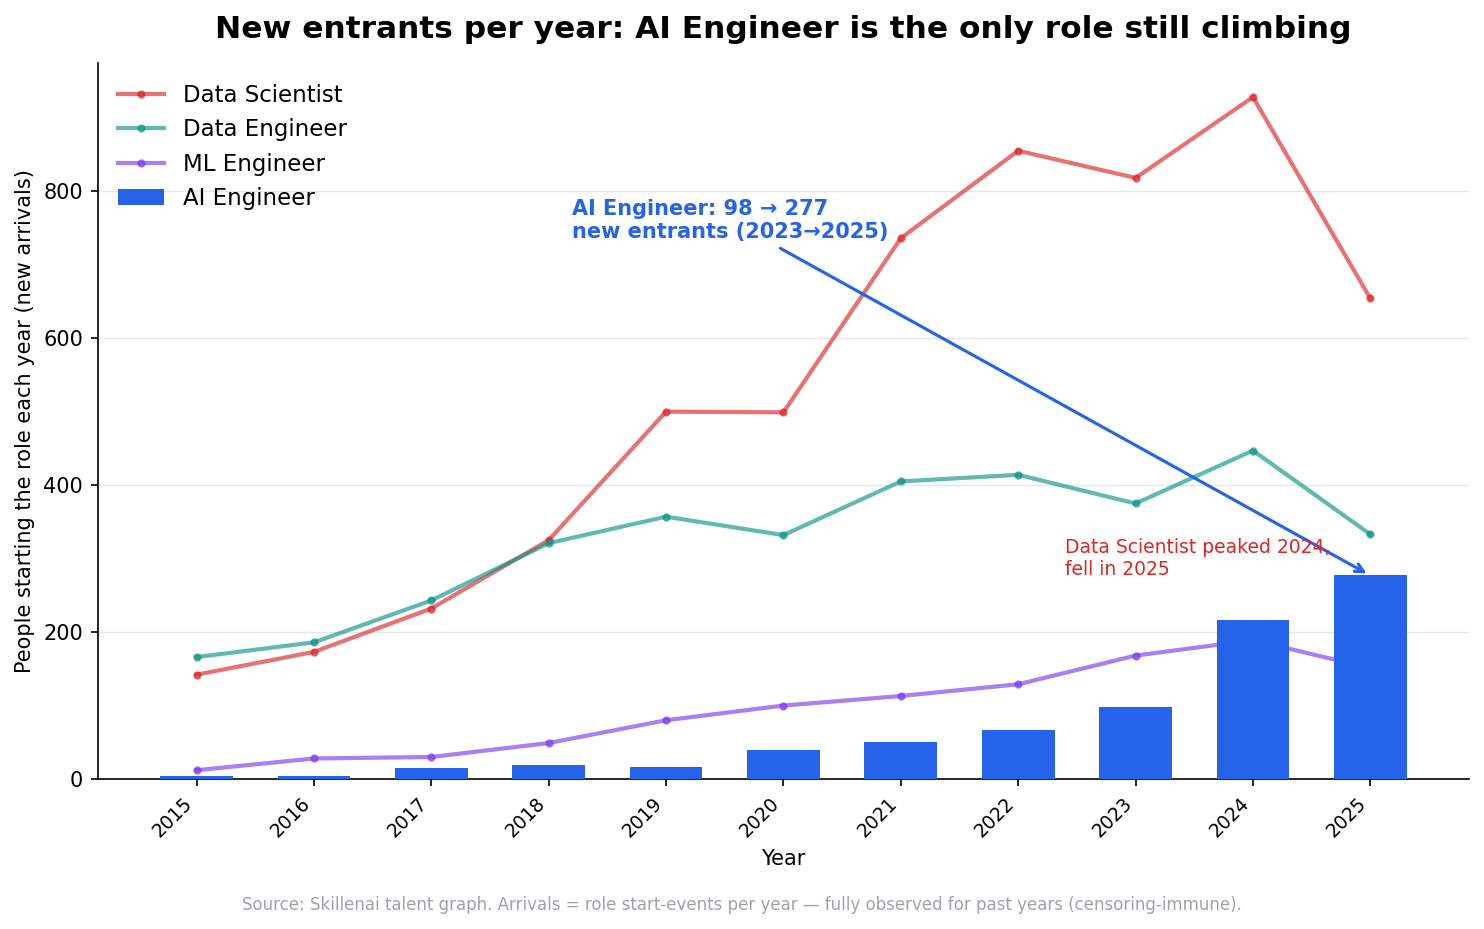
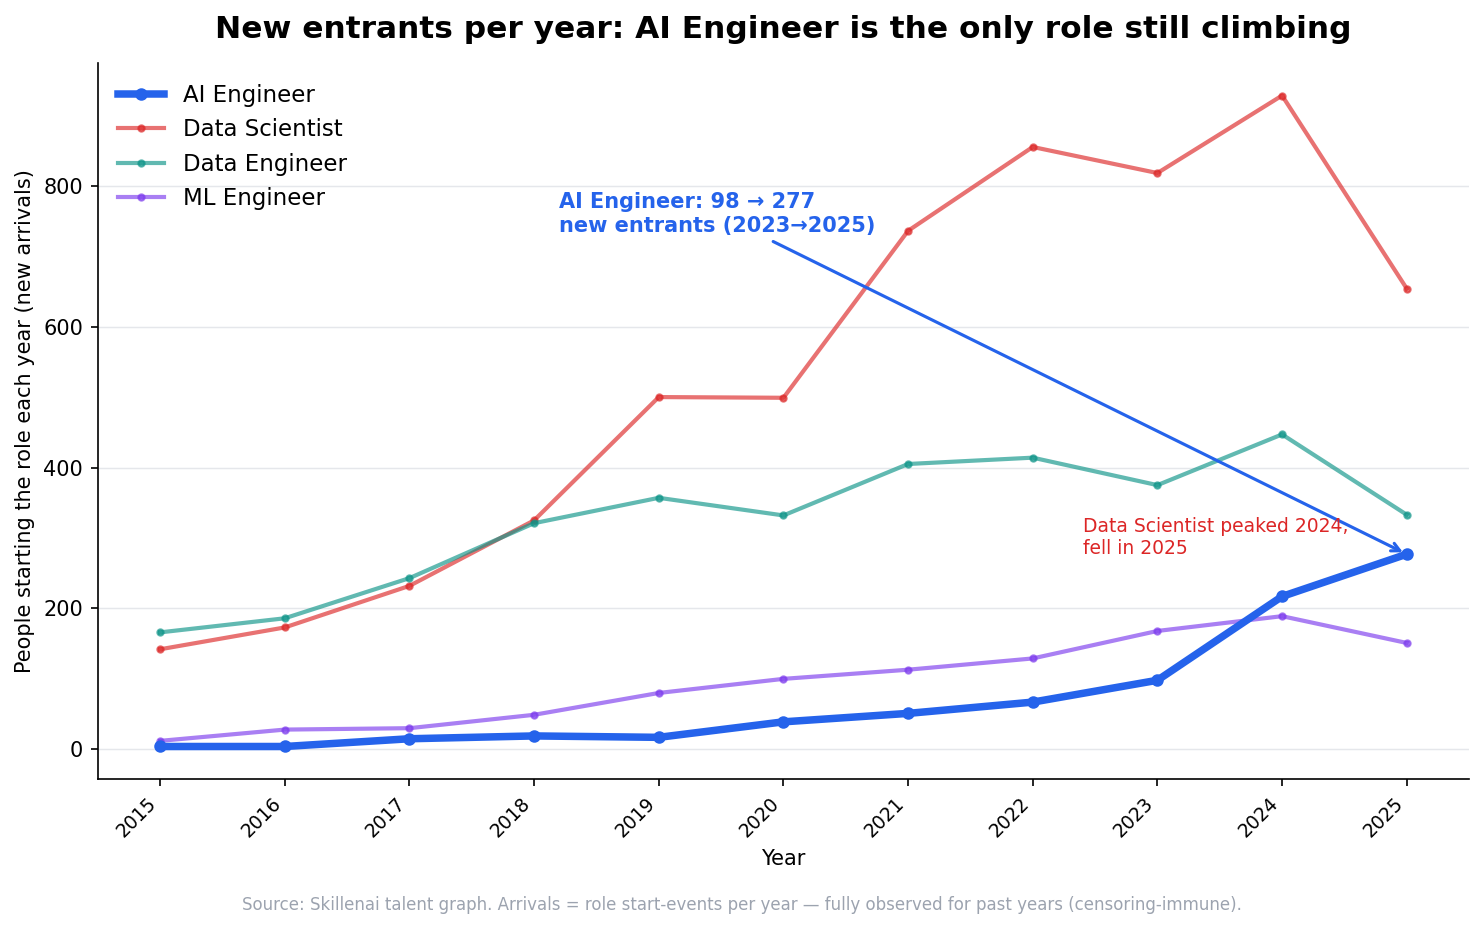
Chart tweaks: arrivals AIE as a line (consistent); skill-gap adds aligned grey band

diff --git a/ai-engineer-talent-flows/make_figures.py b/ai-engineer-talent-flows/make_figures.py
@@ -67,7 +67,7 @@ def fig_arrivals():
     ys=[int(r["year"]) for r in rows]
     A={k:[int(r[c]) for r in rows] for k,c in [("AIE","AI_Engineer"),("DS","Data_Scientist"),("MLE","ML_Engineer"),("DE","Data_Engineer")]}
     fig,ax=plt.subplots(figsize=(10,6))
-    ax.bar(ys,A["AIE"],color=C["AIE"],width=.62,label="AI Engineer",zorder=3)
+    ax.plot(ys,A["AIE"],color=C["AIE"],lw=3.6,marker="o",ms=5,label="AI Engineer",zorder=3)
     for k,lab in [("DS","Data Scientist"),("DE","Data Engineer"),("MLE","ML Engineer")]:
         ax.plot(ys,A[k],color=C[k],lw=2,marker="o",ms=3,alpha=.65,label=lab,zorder=2)
     ax.annotate(f"AI Engineer: {A['AIE'][-3]} → {A['AIE'][-1]}\nnew entrants (2023→2025)",
@@ -88,9 +88,13 @@ def fig_skill_gap():
     rows=[(r["skill"],float(r["demand_pct"]),float(r["supply_pct"])) for r in read_csv("skill_supply_demand.csv")]
     L=24
     fig,ax=plt.subplots(figsize=(11,8.5))
+    BAND=3
+    xs=np.linspace(0,L,200); lo=np.clip(xs-BAND,0,L); hi=np.clip(xs+BAND,0,L)
+    ax.fill_between(xs,hi,L,color="#dbeafe",alpha=.35,zorder=0)   # demand ahead
+    ax.fill_between(xs,0,lo,color="#fee2e2",alpha=.35,zorder=0)   # supply legacy
+    ax.fill_between(xs,lo,hi,color="#e5e7eb",alpha=.7,zorder=0)   # aligned band (±3 pts)
     ax.plot([0,L],[0,L],color="#9ca3af",ls="--",lw=1,zorder=1)
-    ax.fill_between([0,L],[0,L],[L,L],color="#dbeafe",alpha=.35,zorder=0)
-    ax.fill_between([0,L],[0,0],[0,L],color="#fee2e2",alpha=.35,zorder=0)
+    ax.text(19.5,17.6,"aligned",color="#6b7280",fontsize=9,rotation=45,ha="center",va="center")
     ax.text(1.5,22.5,"EMPLOYERS ASK FOR IT MORE than workers list it\nthe reskilling frontier",color="#1d4ed8",fontsize=10.5,fontweight="bold",va="top")
     ax.text(15.2,2.9,"WORKERS LIST IT MORE than employers ask\nlegacy from prior roles",color="#b91c1c",fontsize=10.5,fontweight="bold",va="top")
     LABELS={"prompt engineering":(6,2,"left"),"LLMs":(6,1,"left"),"rag":(6,-3,"left"),
